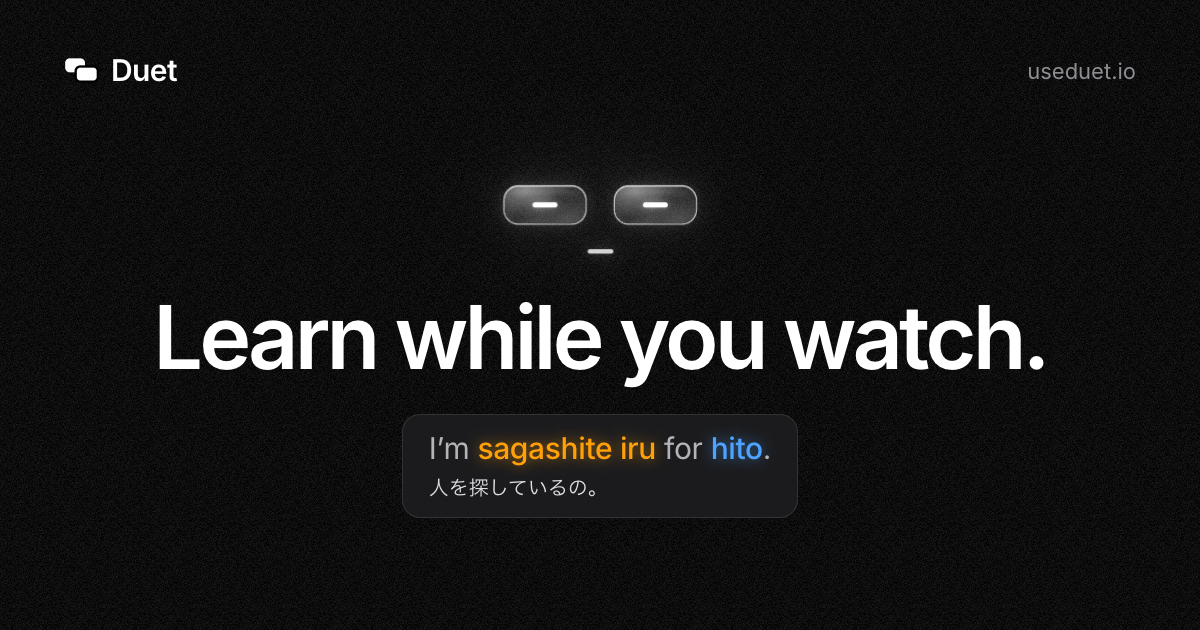
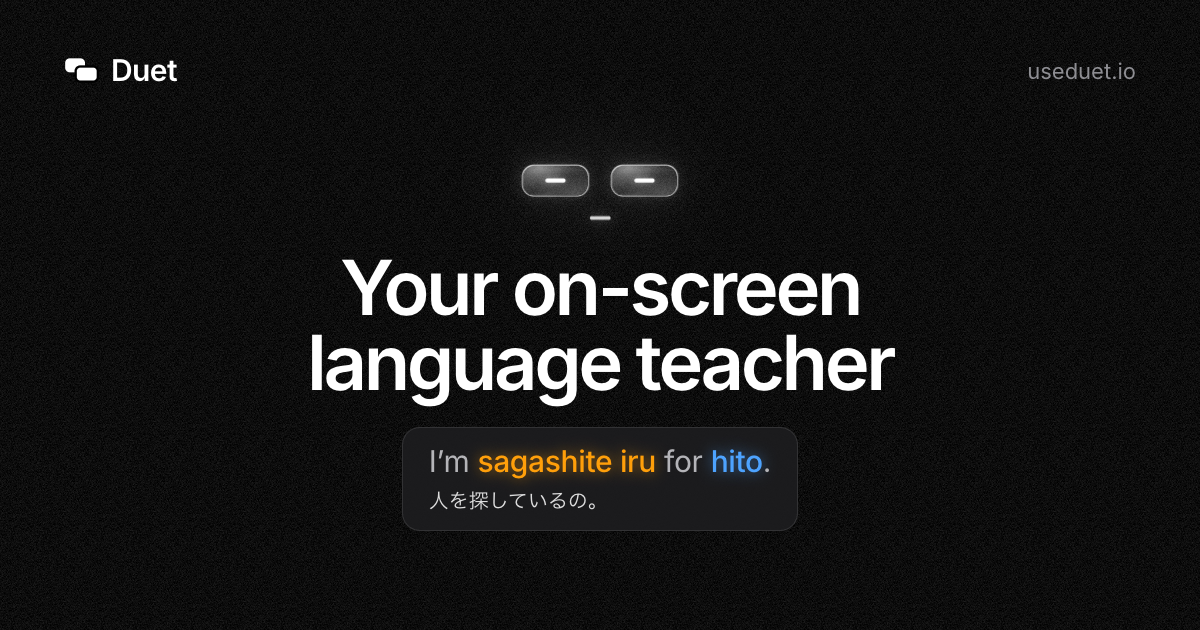
Landing page: "Your on-screen language teacher", and the link preview to match
The hero headline is "Your on-screen / language teacher" on two lines (sized down a little on
phones so it stays on two). The link preview, its description and alt text say the same; linked as
og.png?v=3 so shared links fetch it afresh.

diff --git a/waitlist/app/index.html b/waitlist/app/index.html
@@ -7,16 +7,16 @@
   <title>Duet, learn a language from what you watch</title>
   <meta name="description" content="Duet sits on top of YouTube and Netflix and turns what you watch into Japanese, Spanish or Korean you remember. Words you know light up, you can ask about any line, and five minutes a day keeps them. Join the waitlist.">
   <meta property="og:title" content="Duet">
-  <meta property="og:description" content="Learn while you watch: Japanese, Spanish or Korean, from YouTube and Netflix.">
+  <meta property="og:description" content="Your on-screen language teacher: learn Japanese, Spanish or Korean watching YouTube or Netflix.">
   <meta property="og:type" content="website">
   <meta property="og:site_name" content="Duet">
   <meta property="og:url" content="https://useduet.io/">
-  <meta property="og:image" content="https://useduet.io/og.png?v=2">
+  <meta property="og:image" content="https://useduet.io/og.png?v=3">
   <meta property="og:image:width" content="1200">
   <meta property="og:image:height" content="630">
-  <meta property="og:image:alt" content="Duet’s face over the words Learn while you watch, and a subtitle line with its Japanese words in colour.">
+  <meta property="og:image:alt" content="Duet’s face over the words Your on-screen language teacher, and a subtitle line with its Japanese words in colour.">
   <meta name="twitter:card" content="summary_large_image">
-  <meta name="twitter:image" content="https://useduet.io/og.png?v=2">
+  <meta name="twitter:image" content="https://useduet.io/og.png?v=3">
   <link rel="canonical" href="https://useduet.io/">
   <link rel="icon" href="./favicon.svg" type="image/svg+xml">
   <link rel="apple-touch-icon" href="./apple-touch-icon.png">
@@ -55,7 +55,7 @@
            before the first paint; after a refresh or Back, Duet waits unseen and site.js decides once
            the scroll is back. -->
       <script>(function () { var n = performance.getEntriesByType && performance.getEntriesByType('navigation')[0]; var duet = document.querySelector('.hero-anchor .duet-mascot'); if (n && n.type !== 'navigate') duet.style.visibility = 'hidden'; else if (!location.hash && !matchMedia('(prefers-reduced-motion: reduce)').matches) duet.dataset.state = 'opening'; })();</script>
-      <h1 id="hero-title">Learn while you watch.</h1>
+      <h1 id="hero-title">Your on&#8209;screen<br>language teacher</h1>
       <p class="hero-copy">Learn your favourite language watching YouTube or Netflix.</p>
       <!-- Sign-ups go to /api/join (api/join.js). -->
       <form class="join join-hero" action="/api/join" method="post" novalidate data-source="hero">

diff --git a/waitlist/app/privacy.html b/waitlist/app/privacy.html
@@ -8,11 +8,11 @@
   <meta name="description" content="What the Duet waitlist collects, why, and how to have it deleted.">
   <meta property="og:title" content="Privacy, Duet">
   <meta property="og:site_name" content="Duet">
-  <meta property="og:image" content="https://useduet.io/og.png?v=2">
+  <meta property="og:image" content="https://useduet.io/og.png?v=3">
   <meta property="og:image:width" content="1200">
   <meta property="og:image:height" content="630">
   <meta name="twitter:card" content="summary_large_image">
-  <meta name="twitter:image" content="https://useduet.io/og.png?v=2">
+  <meta name="twitter:image" content="https://useduet.io/og.png?v=3">
   <link rel="icon" href="./favicon.svg" type="image/svg+xml">
   <link rel="apple-touch-icon" href="./apple-touch-icon.png">
   <link rel="stylesheet" href="./styles.css">

diff --git a/waitlist/app/styles.css b/waitlist/app/styles.css
@@ -500,6 +500,8 @@ h1{margin-top:clamp(22px,4vh,40px);font-size:clamp(46px,7.2vw,104px);line-height
 }
 @media(max-width:600px){
   html{scroll-padding-top:88px}
+  /* The headline stays on its two lines. */
+  h1{font-size:clamp(32px,10vw,46px)}
   .site-header{padding:10px 10px 0}
   .nav{padding:7px 7px 7px 16px;gap:16px}
   .nav-secondary{display:none}
